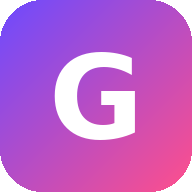
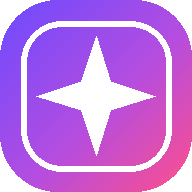
Uygulama ikonlarını yeni logoya uydur (G yerine ışıltı)
- tools/generate_icons.py yeniden yazıldı: ikon artık gradyan zemin + beyaz
  dört uçlu ışıltı işareti; 'G' harfi kaldırıldı. Gradyan, uygulama içi logo
  duraklarıyla (#6D4AFF-#B44DE0-#FF4F8B) aynı.
- Kısayol simgeleri aynı gradyan duraklarıyla yeniden üretildi.
- sw.js CACHE genc-v5 -> genc-v6 (eski simge önbellekte kalmasın).
- icon-192/512, maskable-512, apple-touch-icon, favicon-32 yeniden üretildi.

diff --git a/sw.js b/sw.js
@@ -1,5 +1,5 @@
 /* Genç - çevrimdışı desteği ve hızlı açılış için servis çalışanı. */
-var CACHE = "genc-v5";
+var CACHE = "genc-v6";
 var ASSETS = [
   "./",
   "./Genc.html",

diff --git a/tools/generate_icons.py b/tools/generate_icons.py
@@ -1,13 +1,31 @@
 #!/usr/bin/env python3
-"""Genç uygulama ikonlarını üretir (icons/ klasörüne PNG yazar)."""
+"""Genç uygulama ikonlarını üretir (icons/ klasörüne PNG yazar).
+
+İkon, uygulama içi logonun kutusuz halidir: köşegen gradyan zemin üzerinde
+beyaz dört uçlu ışıltı (yıldız) işareti.
+"""
 import os
 
-from PIL import Image, ImageDraw, ImageFont
+from PIL import Image, ImageDraw
 
 OUT = os.path.join(os.path.dirname(os.path.dirname(os.path.abspath(__file__))), "icons")
-FONT = "/usr/share/fonts/truetype/dejavu/DejaVuSans-Bold.ttf"
-C1 = (109, 74, 255)   # #6D4AFF
-C2 = (255, 79, 139)   # #FF4F8B
+
+# Uygulama içi logo gradyanıyla aynı renk durakları (bkz. Genc.html --logo-c*).
+STOPS = [
+    (0.00, (109, 74, 255)),   # #6D4AFF
+    (0.55, (180, 77, 224)),   # #B44DE0
+    (1.00, (255, 79, 139)),   # #FF4F8B
+]
+
+# Işıltı işaretinin 44x44 logo kutusundaki noktaları (dış uç + iç köşe).
+SPARKLE_44 = [
+    (22.0, 8.4), (25.4, 18.6), (35.6, 22.0), (25.4, 25.4),
+    (22.0, 35.6), (18.6, 25.4), (8.4, 22.0), (18.6, 18.6),
+]
+
+
+def lerp(a, b, t):
+    return round(a + (b - a) * t)
 
 
 def gradient(size):
@@ -16,11 +34,14 @@ def gradient(size):
     for y in range(size):
         for x in range(size):
             t = (x + y) / (2 * (size - 1))
-            px[x, y] = (
-                round(C1[0] + (C2[0] - C1[0]) * t),
-                round(C1[1] + (C2[1] - C1[1]) * t),
-                round(C1[2] + (C2[2] - C1[2]) * t),
-            )
+            lo, hi = STOPS[0], STOPS[-1]
+            for i in range(len(STOPS) - 1):
+                if STOPS[i][0] <= t <= STOPS[i + 1][0]:
+                    lo, hi = STOPS[i], STOPS[i + 1]
+                    break
+            span = (hi[0] - lo[0]) or 1
+            k = (t - lo[0]) / span
+            px[x, y] = tuple(lerp(lo[1][c], hi[1][c], k) for c in range(3))
     return img
 
 
@@ -35,13 +56,19 @@ def rounded(img, radius_ratio):
     return out
 
 
-def draw_letter(img, ratio):
+def draw_sparkle(img, border=False):
     size = img.width
     d = ImageDraw.Draw(img)
-    font = ImageFont.truetype(FONT, int(size * ratio))
-    box = d.textbbox((0, 0), "G", font=font)
-    w, h = box[2] - box[0], box[3] - box[1]
-    d.text(((size - w) / 2 - box[0], (size - h) / 2 - box[1]), "G", font=font, fill="white")
+    scale = size / 44.0
+    d.polygon([(x * scale, y * scale) for x, y in SPARKLE_44], fill=(255, 255, 255, 255))
+    if border:
+        inset = 4.7 * scale
+        d.rounded_rectangle(
+            [inset, inset, size - inset, size - inset],
+            radius=9.4 * scale,
+            outline=(255, 255, 255, 61),
+            width=max(1, round(1.3 * scale)),
+        )
     return img
 
 
@@ -53,10 +80,10 @@ def save(img, name):
 def main():
     os.makedirs(OUT, exist_ok=True)
     for size in (192, 512):
-        save(draw_letter(rounded(gradient(size), 0.22), 0.60), f"icon-{size}.png")
-    save(draw_letter(gradient(512), 0.42), "maskable-512.png")
-    save(draw_letter(gradient(180), 0.60), "apple-touch-icon.png")
-    save(draw_letter(rounded(gradient(32), 0.22), 0.60), "favicon-32.png")
+        save(draw_sparkle(rounded(gradient(size), 0.30), border=True), f"icon-{size}.png")
+    save(draw_sparkle(gradient(512)), "maskable-512.png")
+    save(draw_sparkle(rounded(gradient(180), 0.30), border=True), "apple-touch-icon.png")
+    save(draw_sparkle(rounded(gradient(32), 0.30)), "favicon-32.png")
 
 
 if __name__ == "__main__":

diff --git a/tools/generate_shortcuts.py b/tools/generate_shortcuts.py
@@ -8,8 +8,12 @@ import os
 from PIL import Image, ImageDraw
 
 OUT = os.path.join(os.path.dirname(os.path.dirname(os.path.abspath(__file__))), "icons")
-C1 = (109, 74, 255)   # #6D4AFF
-C2 = (255, 79, 139)   # #FF4F8B
+# Uygulama içi logo gradyanıyla aynı duraklar (bkz. Genc.html --logo-c*).
+STOPS = [
+    (0.00, (109, 74, 255)),   # #6D4AFF
+    (0.55, (180, 77, 224)),   # #B44DE0
+    (1.00, (255, 79, 139)),   # #FF4F8B
+]
 SIZE = 192
 PAD = 34
 
@@ -20,11 +24,14 @@ def gradient(size):
     for y in range(size):
         for x in range(size):
             t = (x + y) / (2 * (size - 1))
-            px[x, y] = (
-                round(C1[0] + (C2[0] - C1[0]) * t),
-                round(C1[1] + (C2[1] - C1[1]) * t),
-                round(C1[2] + (C2[2] - C1[2]) * t),
-            )
+            lo, hi = STOPS[0], STOPS[-1]
+            for i in range(len(STOPS) - 1):
+                if STOPS[i][0] <= t <= STOPS[i + 1][0]:
+                    lo, hi = STOPS[i], STOPS[i + 1]
+                    break
+            span = (hi[0] - lo[0]) or 1
+            k = (t - lo[0]) / span
+            px[x, y] = tuple(round(lo[1][c] + (hi[1][c] - lo[1][c]) * k) for c in range(3))
     return img
 
 

diff --git a/AGENTS.md b/AGENTS.md
@@ -15,9 +15,13 @@ PWA dosyaları + geliştirme sunucusu.
 - `server.py` — önizleme + `/upload` dosya yükleme ucu (port 12000).
 - `yuklenenler/` — yüklenen dosyalar (sürüm kontrolüne girmez).
 - `tools/qr.js` — QR kaynak kodu (Genc.html'e gömülmeden önceki hali).
-- `tools/generate_icons.py` — simge üretici.
+- `tools/generate_icons.py` — simge üretici. İkon, uygulama içi logonun
+  kutusuz halidir: köşegen gradyan zemin + beyaz dört uçlu ışıltı işareti
+  (eski "G" harfi kaldırıldı).
 - `tools/generate_shortcuts.py` — kısayol simgesi üretici (her kısayola kendi
   glifi; Android ve masaüstünde aynı ikon tekrar etmesin).
+- Simgeler değişince `sw.js` içindeki `CACHE` sürümünü artırın; yoksa tarayıcı
+  eski simgeyi önbellekten göstermeye devam eder.
 
 ## Geliştirme komutları
 
